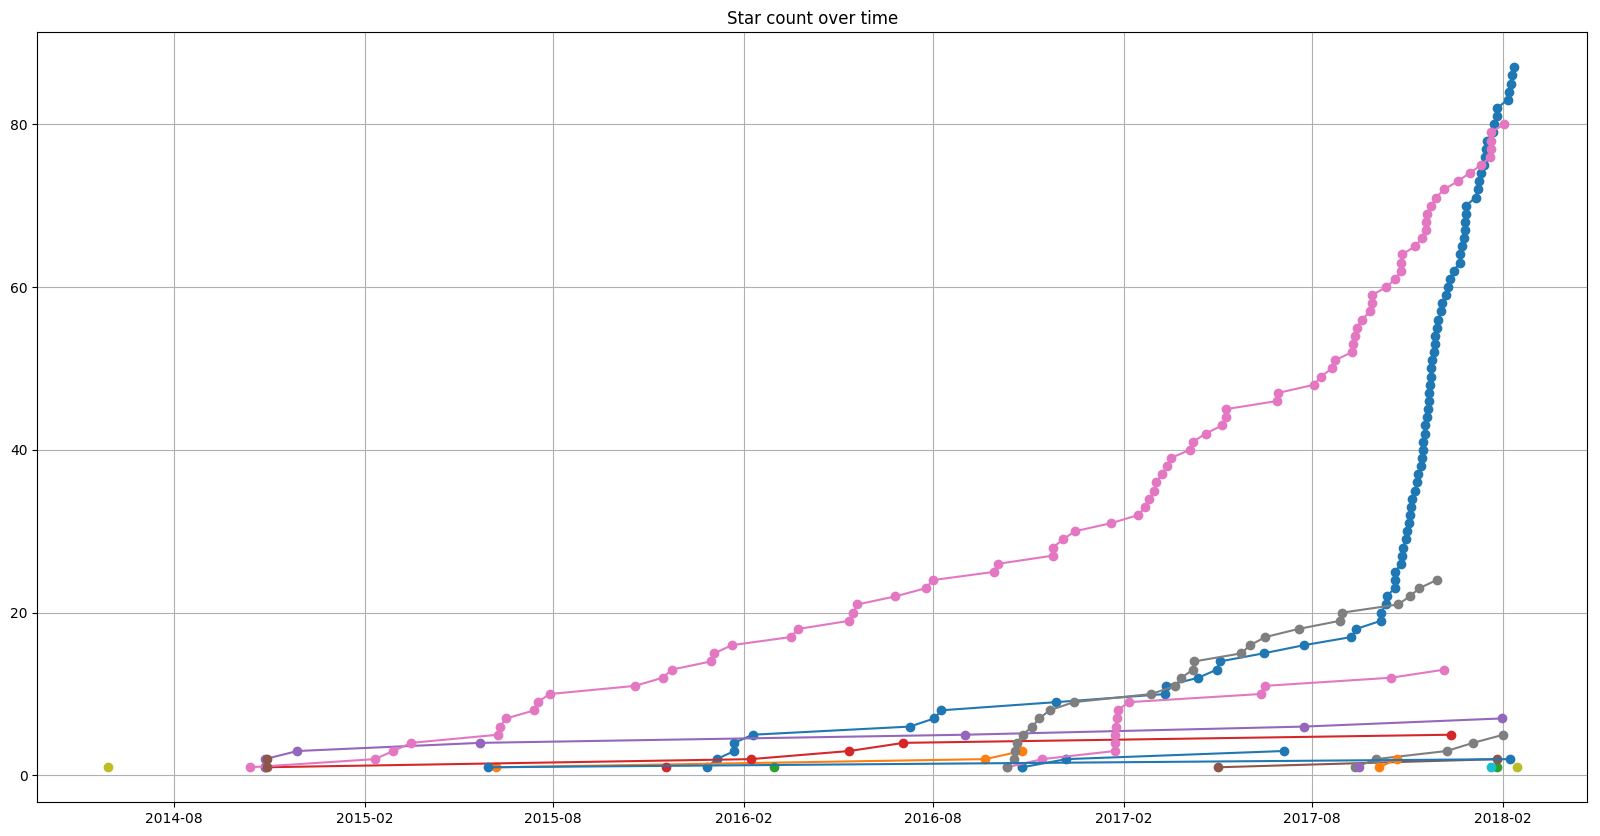
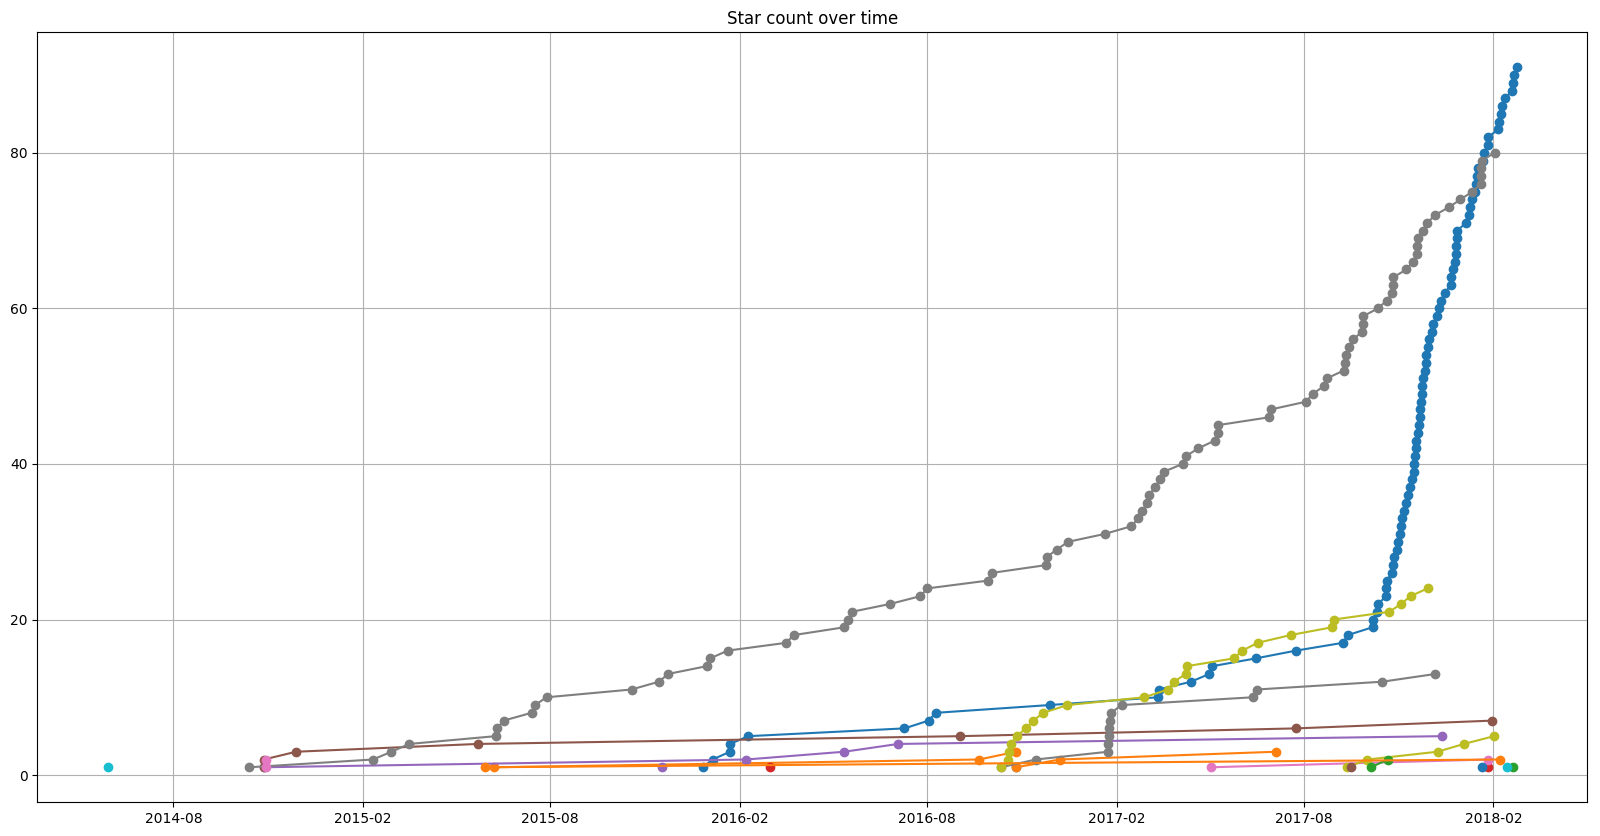
update

diff --git a/README.md b/README.md
@@ -37,11 +37,11 @@
 
 ## Python Tools for Developers
 
-* [CodeReview](https://github.com/FabriceSalvaire/CodeReview) 87 :star:</br>
+* [CodeReview](https://github.com/FabriceSalvaire/CodeReview) 91 :star:</br>
 
    CodeReview is a Git GUI tool to perform code review (Diff Viewer) written in Python3 and Qt5.
 
-   Updated on 2018-02-12
+   Updated on 2018-02-23
 
 * [github-map](https://github.com/FabriceSalvaire/github-map)
 
@@ -217,11 +217,11 @@
 
 ## Python for Music
 
-* [Musica](https://github.com/FabriceSalvaire/Musica)
+* [Musica](https://github.com/FabriceSalvaire/Musica) 1 :star:</br>
 
    Musica is a Python toolkit for computational music.
 
-   Updated on 2017-11-08
+   Updated on 2018-02-19
 
 * [Musica-data](https://github.com/FabriceSalvaire/Musica-data)
 
